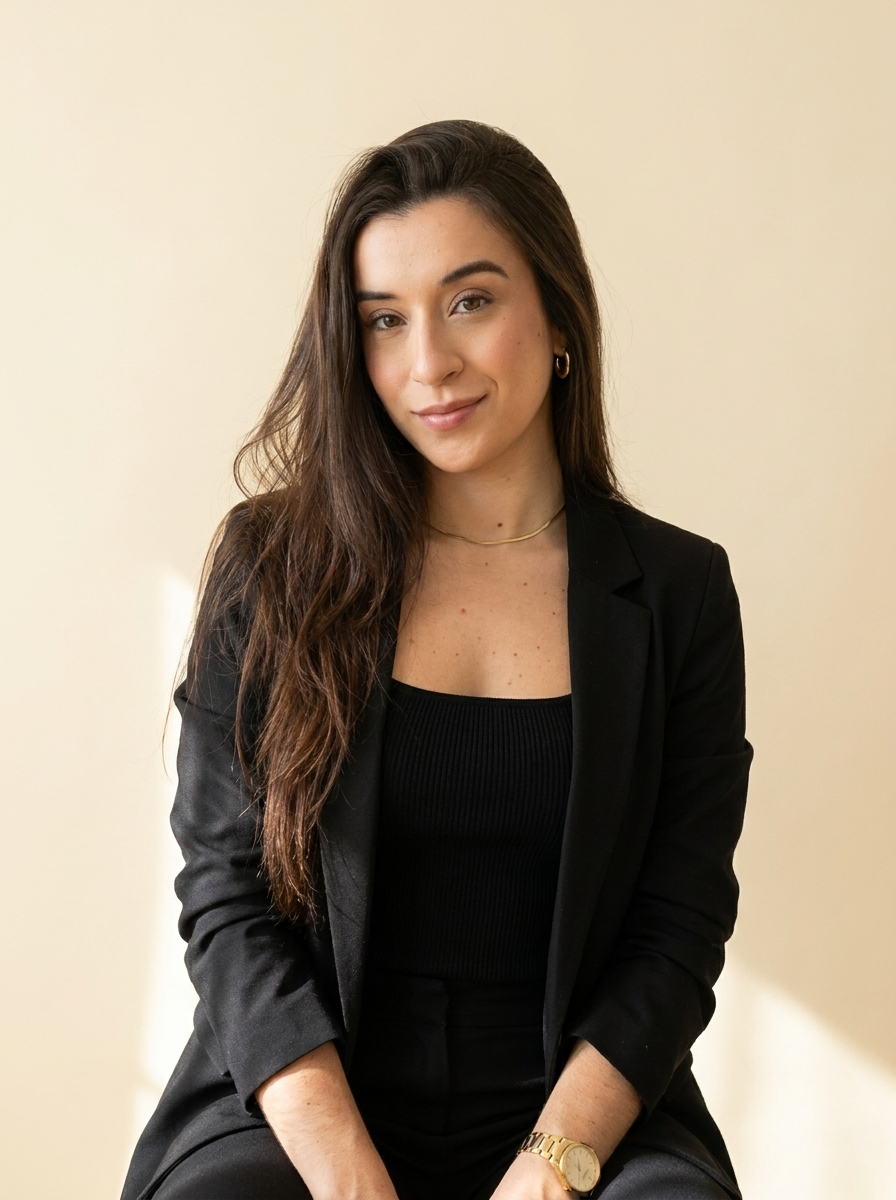
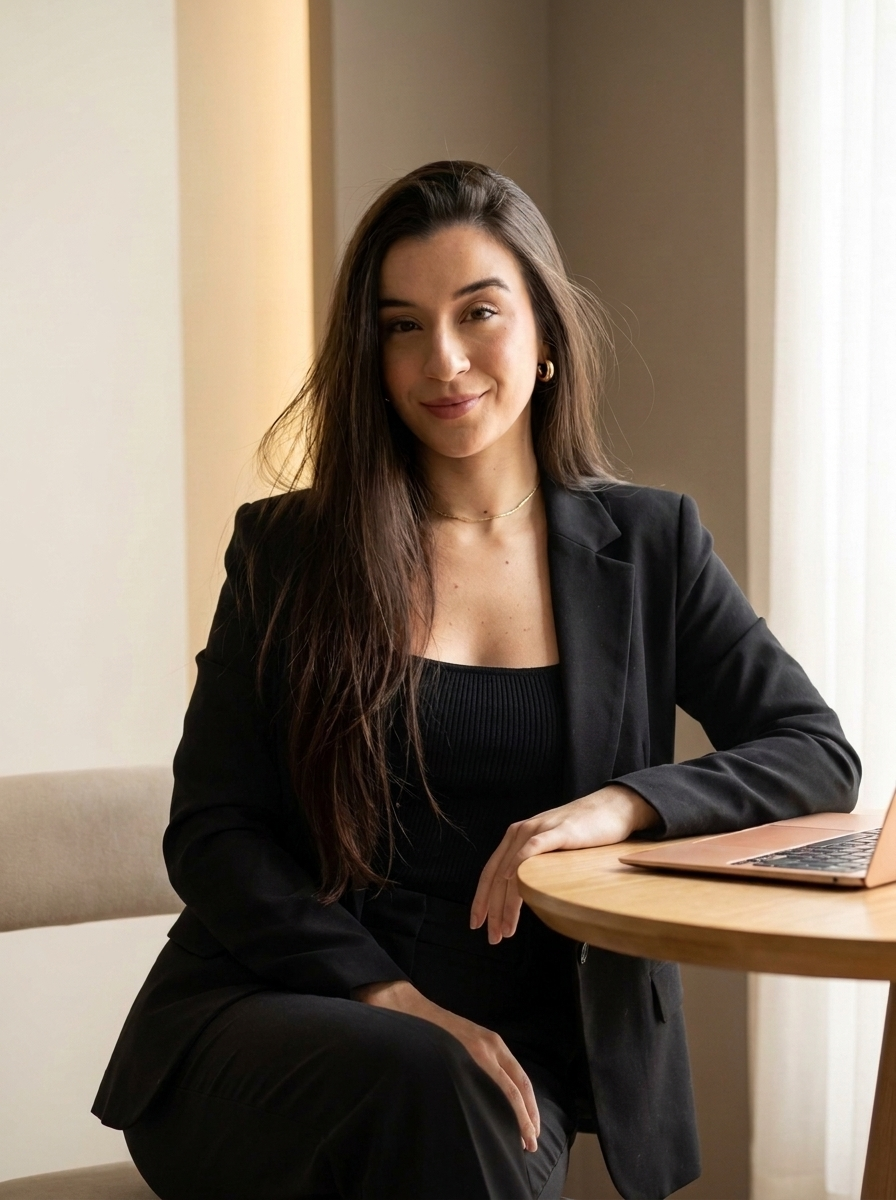
Troca a foto do Sobre pelo retrato na mesa, de blazer
A foto passa a ser a que reúne o registro profissional do blazer e o contexto
de atendimento online da mesa com o notebook. Enquadramento escolhido entre
três prévias renderizadas na própria seção.

- Corte 667×1000 a partir de (117, 40) sobre o original de 896×1200, feito no
  arquivo e não pelo object-fit. Dos três cortes avaliados, é o que preserva
  mais resolução: 1,42× de densidade no desktop, contra 1,13× do corte de busto
  e 0,94× do corte de peito para cima.
- WebP com fallback JPG: 36 KB contra 91 KB.
- alt atualizado para descrever a cena nova.

Renomeia os arquivos de origem para que retrato-original.jpg volte a ser de
fato o original de retrato.jpg — antes apontava para a sessão anterior, que
passa a se chamar estudio-fundo-claro.jpg. Sem isso, um corte futuro sairia do
arquivo errado.

components.md registra o novo recorte e ganha a regra de densidade: o painel
exibe 470×704 no desktop, então a conta é largura do recorte ÷ 470, e um corte
fechado demais fica macio em tela retina.

Verificado com as fontes reais em 390/860/1280px: o navegador serve o WebP, os
atributos width/height batem com o arquivo, o painel mantém 2:3 e a suíte de
responsividade (14 larguras × 2 temas) segue passando.

Claude-Session: https://claude.ai/code/session_01SyVBjNLjT4TFT646H6EMug

diff --git a/index.html b/index.html
@@ -119,8 +119,8 @@
         <figure class="about__figure" data-reveal>
           <picture>
             <source srcset="assets/retrato.webp" type="image/webp">
-            <img class="about-photo" src="assets/retrato.jpg" width="720" height="1080"
-                 alt="Rafaela Schumacher, nutricionista, sentada de blazer preto sobre fundo claro"
+            <img class="about-photo" src="assets/retrato.jpg" width="667" height="1000"
+                 alt="Rafaela Schumacher, nutricionista, de blazer preto sentada a uma mesa com um notebook"
                  loading="lazy" decoding="async">
           </picture>
         </figure>

diff --git a/.claude/skills/rafaela-brand/references/components.md b/.claude/skills/rafaela-brand/references/components.md
@@ -211,8 +211,12 @@ arredondados, **nunca recortada em círculo**.
 A proporção `2 / 3` é deliberada. **Corte a imagem nessa proporção antes de subir**, num
 editor, decidindo onde o corte cai — não deixe o `object-fit: cover` cortar pelo centro
 geométrico, que quase nunca é onde está o rosto. O retrato atual veio em 896×1200 (3:4) e
-foi cortado para 720×1080 centrado no sujeito, que estava 11px à direita do centro da
-imagem. `object-position` é o último recurso, para quando não dá para recortar o arquivo.
+foi cortado para 667×1000 a partir de (117, 40), enquadrando o torso, a mesa e o notebook. `object-position` é o último recurso, para quando não dá para recortar o arquivo.
+
+**Corte fechado custa resolução.** O painel exibe `470×704` no desktop. Um corte de busto
+num arquivo de 896×1200 sobra `533×800` (1,13× de densidade) e um de peito para cima sobra
+`440×660` (0,94×) — visivelmente mais macio que o atual em tela retina. Meça a densidade
+antes de fechar o enquadramento: `largura do recorte ÷ 470`.
 
 `.about__credential` é uma legenda **opcional**: rótulo em caixa alta dourado (`.64rem`,
 `letter-spacing: .22em`) precedido de um filete de 24px. Use quando a foto puder ser lida
@@ -224,7 +228,7 @@ carrega esse risco e dispensa a legenda; é por isso que ela não aparece na hom
 <figure class="about__figure" data-reveal>
   <picture>
     <source srcset="assets/retrato.webp" type="image/webp">
-    <img class="about-photo" src="assets/retrato.jpg" width="720" height="1080"
+    <img class="about-photo" src="assets/retrato.jpg" width="667" height="1000"
          alt="…" loading="lazy" decoding="async">
   </picture>
   <!-- <figcaption class="about__credential">Olympia Amateur Brasil · 2025</figcaption> -->
